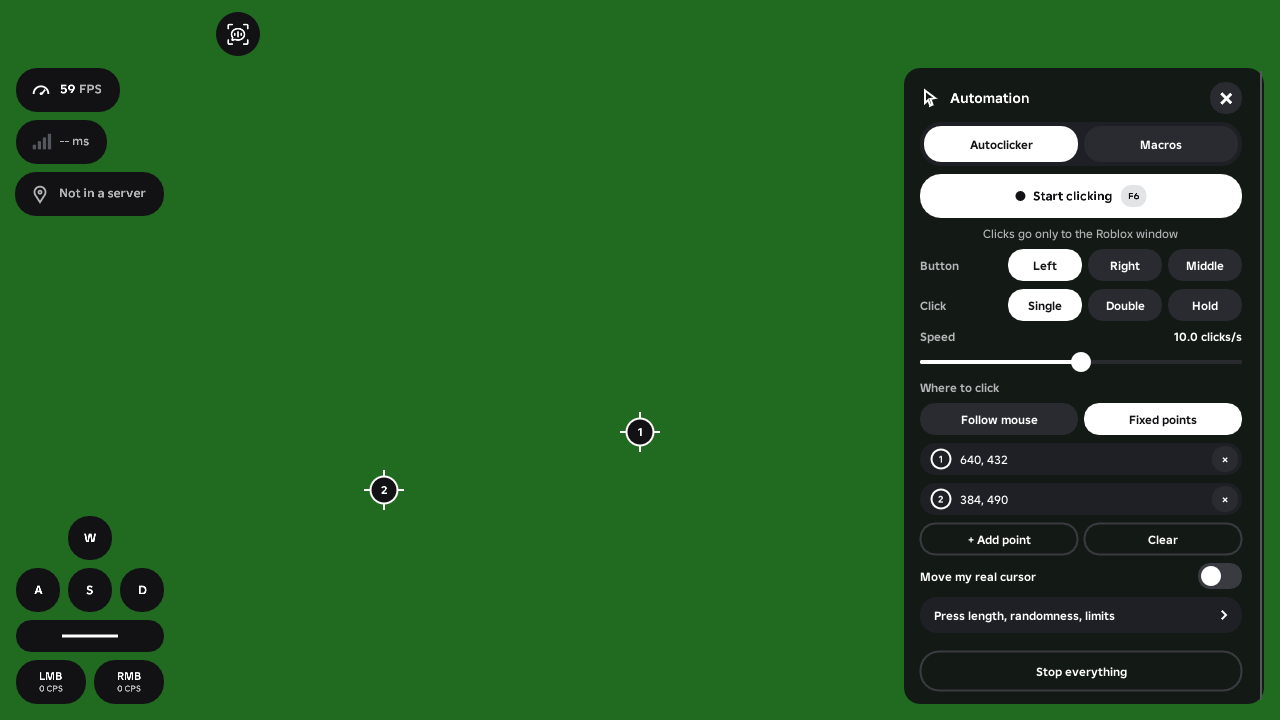
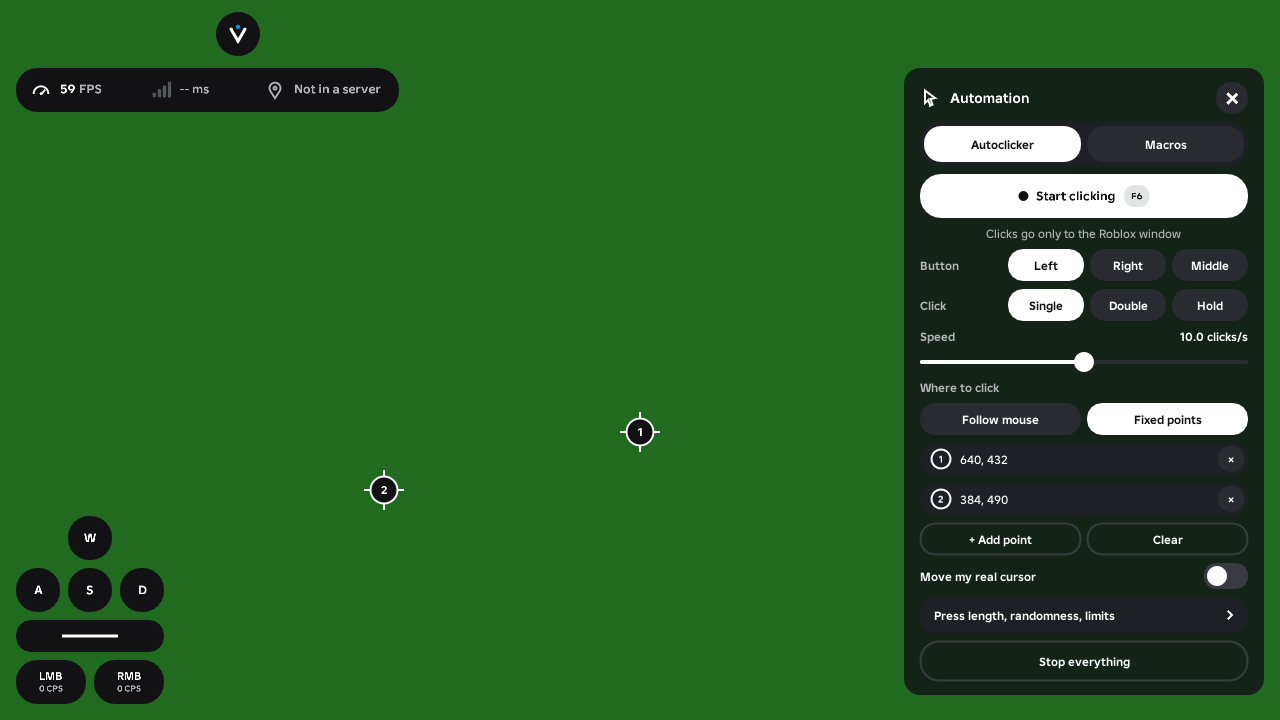
docs: update README screenshots for Vox Menu

diff --git a/README.md b/README.md
@@ -123,7 +123,7 @@ Press **F8** or click the top-bar button to open the menu.
    * **Test Voice & Stop Controls:** Immediate auditioning and audio playback controls.
 
 <p align="center">
-  <img src="docs/images/vox-tts-animal-crossing.png" alt="Animal Crossing Engine Settings" width="750">
+  <img src="docs/images/vox-menu-tts.png" alt="Animal Crossing Engine Settings" width="750">
 </p>
 
 2. **Output:**
@@ -137,7 +137,7 @@ Press **F8** or click the top-bar button to open the menu.
    * **Voice Chat Status:** Live indicator showing if Roblox is currently capturing audio.
 
 <p align="center">
-  <img src="docs/images/vox-tts-output.png" alt="Audio Output Settings" width="750">
+  <img src="docs/images/vox-menu-output.png" alt="Audio Output Settings" width="750">
 </p>
 
 3. **Game:**
